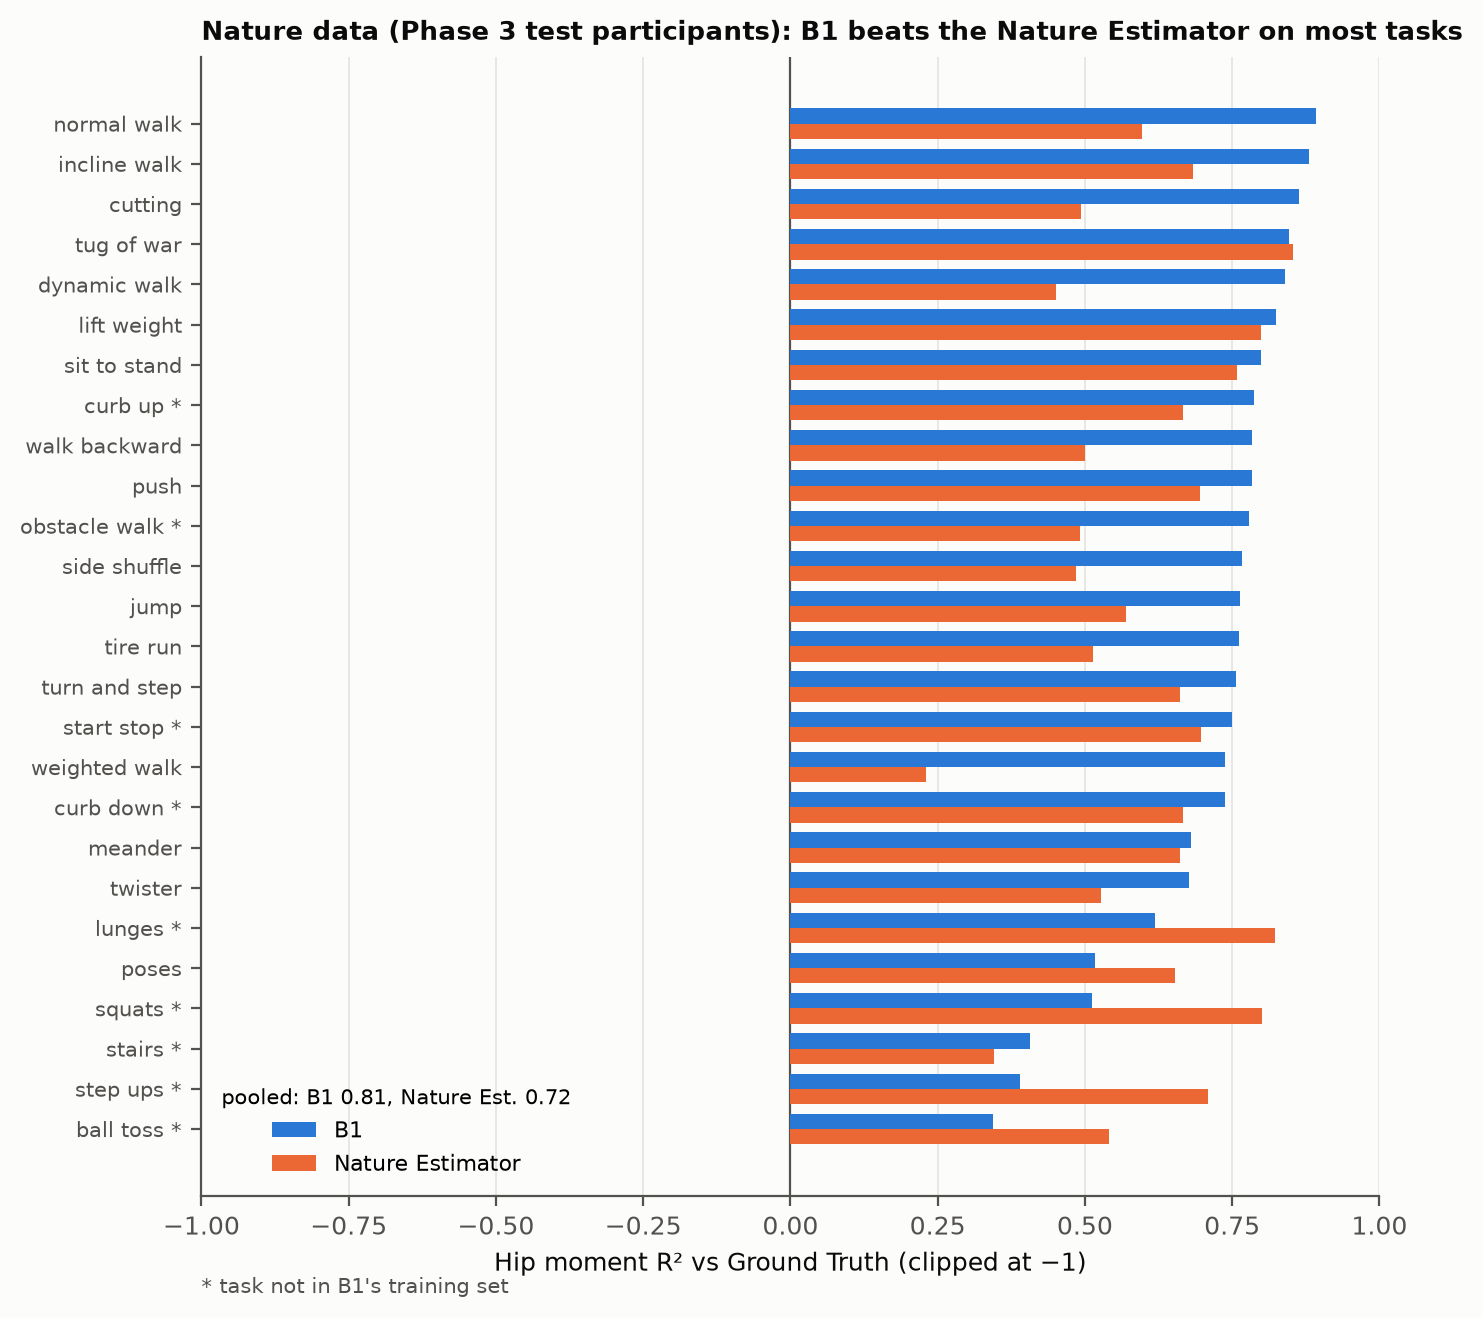
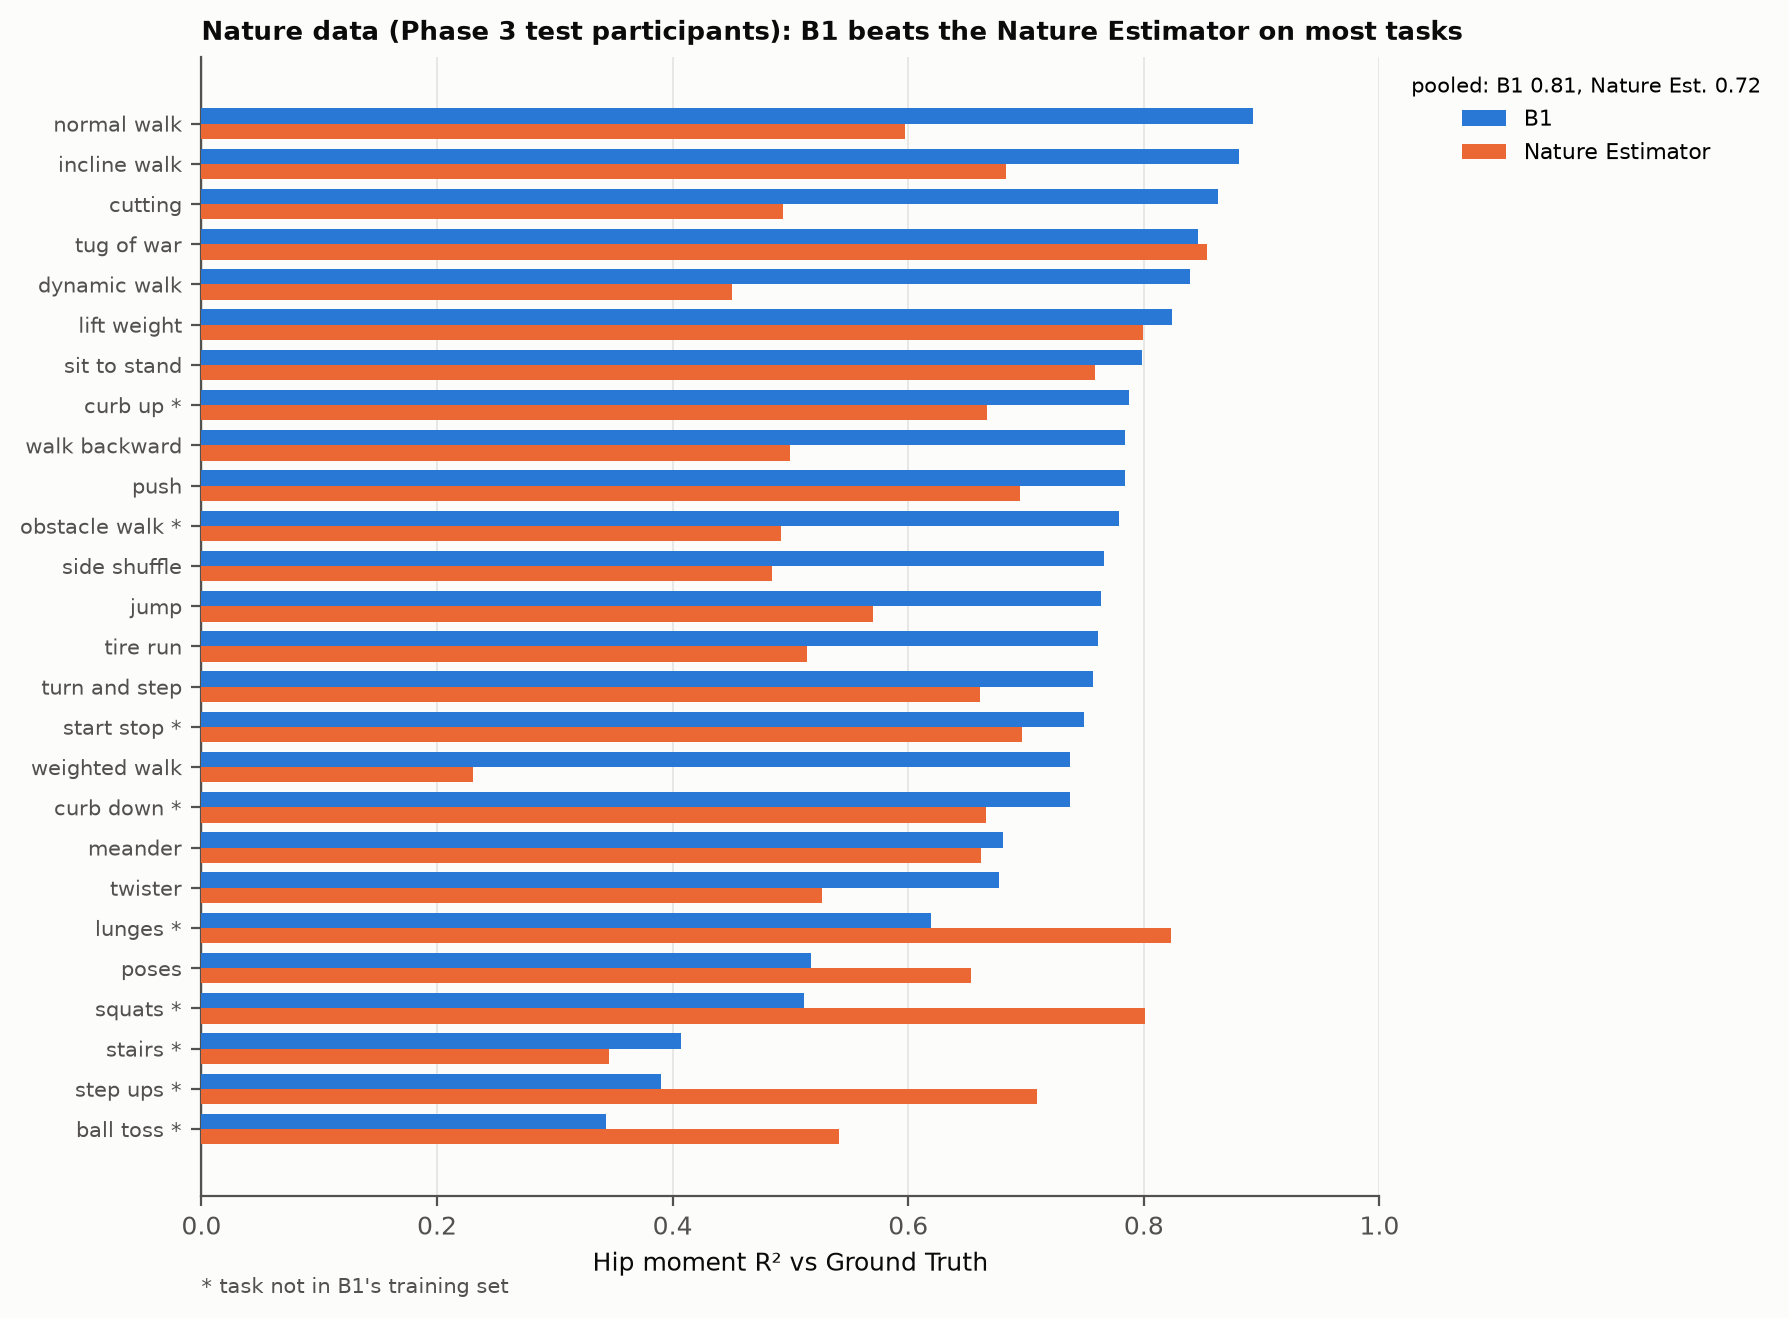
D02 Nature figure: R² axis from the data (no empty negative half), legend outside the bars

diff --git a/deployment/plot_nature.py b/deployment/plot_nature.py
@@ -52,17 +52,17 @@ def plot_tasks(df: pd.DataFrame) -> None:
     fig, ax = plt.subplots(figsize = (7.6, 7.4))
     y = np.arange(len(t))
     h = 0.38
-    ax.barh(y + h / 2, t['B1'].clip(lower = -1), h, color = B1_COLOR, label = 'B1', zorder = 3)
-    ax.barh(y - h / 2, t['Nature Estimator'].clip(lower = -1), h, color = NATURE_COLOR, label = 'Nature Estimator', zorder = 3)
+    ax.barh(y + h / 2, t['B1'], h, color = B1_COLOR, label = 'B1', zorder = 3)
+    ax.barh(y - h / 2, t['Nature Estimator'], h, color = NATURE_COLOR, label = 'Nature Estimator', zorder = 3)
     labels = [f"{r.task.replace('_', ' ')}{'' if r.trained else ' *'}" for r in t.itertuples()]
     ax.set_yticks(y, labels, fontsize = 7.5)
     ax.axvline(0, color = MUTED, lw = 0.8)
-    ax.set_xlim(-1, 1)
-    ax.set_xlabel('Hip moment R² vs Ground Truth (clipped at −1)')
+    ax.set_xlim(min(0.0, float(t[['B1', 'Nature Estimator']].min().min()) - 0.05), 1)   # from the data: 0 unless a task goes negative
+    ax.set_xlabel('Hip moment R² vs Ground Truth')
     ax.grid(axis = 'y', visible = False)
     pooled_b1 = get_r2(df['b1'].to_numpy(), df['truth'].to_numpy())
     pooled_n = get_r2(df['nature'].to_numpy(), df['truth'].to_numpy())
-    ax.legend(loc = 'lower left', fontsize = 8, title = f'pooled: B1 {pooled_b1:.2f}, Nature Est. {pooled_n:.2f}', title_fontsize = 7.5)
+    ax.legend(loc = 'upper left', fontsize = 8, bbox_to_anchor = (1.01, 1.0), title = f'pooled: B1 {pooled_b1:.2f}, Nature Est. {pooled_n:.2f}', title_fontsize = 7.5)
     ax.annotate('* task not in B1\'s training set', (0.0, -0.085), xycoords = 'axes fraction', fontsize = 7.5, color = MUTED)
     ax.set_title('Nature data (Phase 3 test participants): B1 beats the Nature Estimator on most tasks', loc = 'left',
                  fontsize = 9.5, fontweight = 'bold', color = INK)
